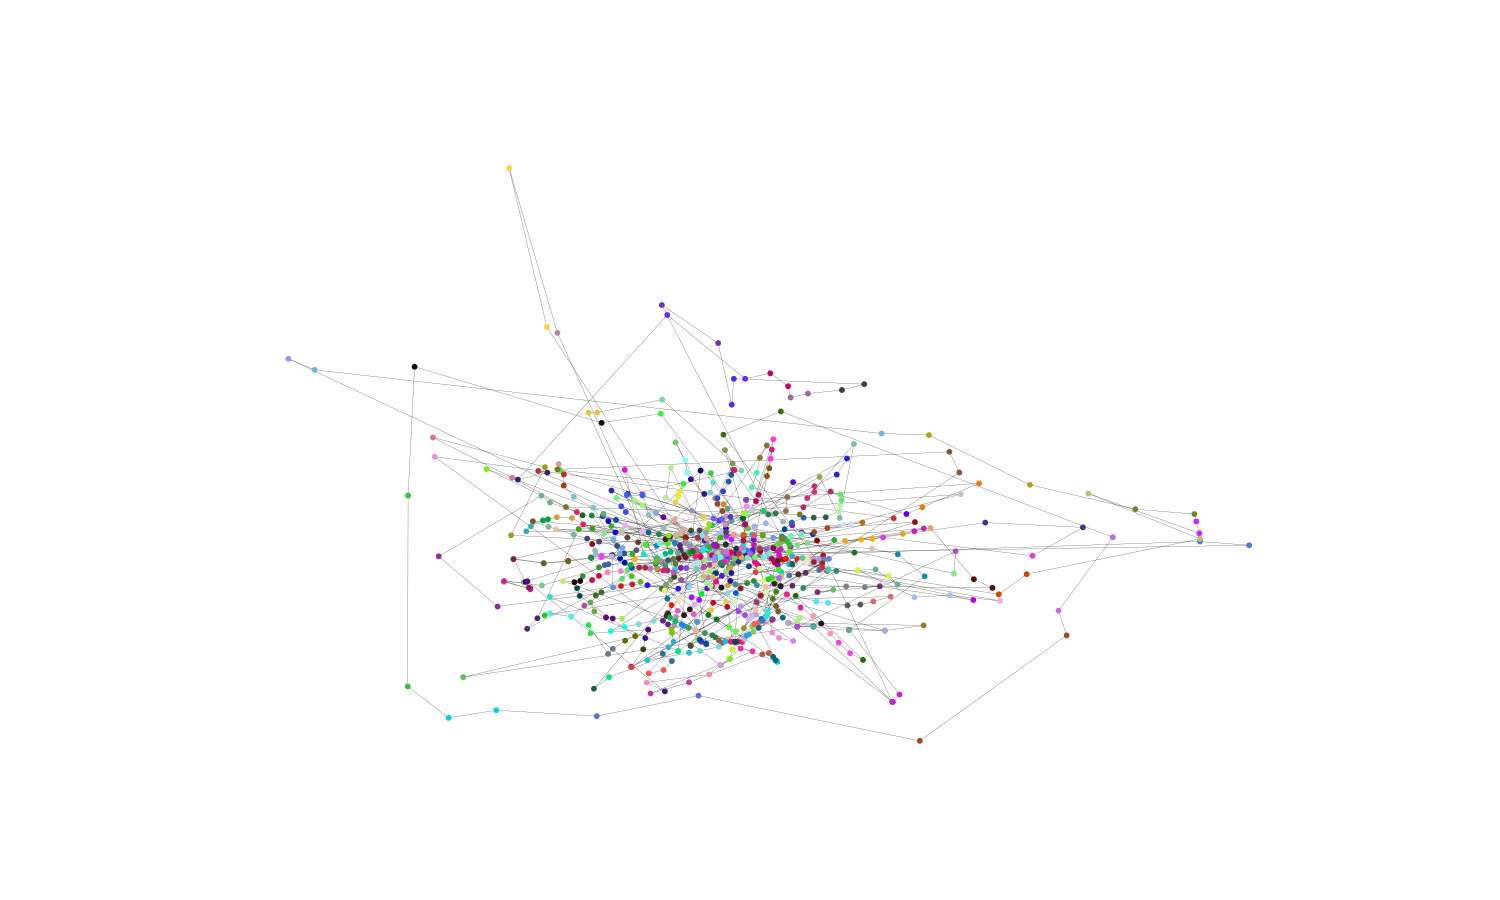
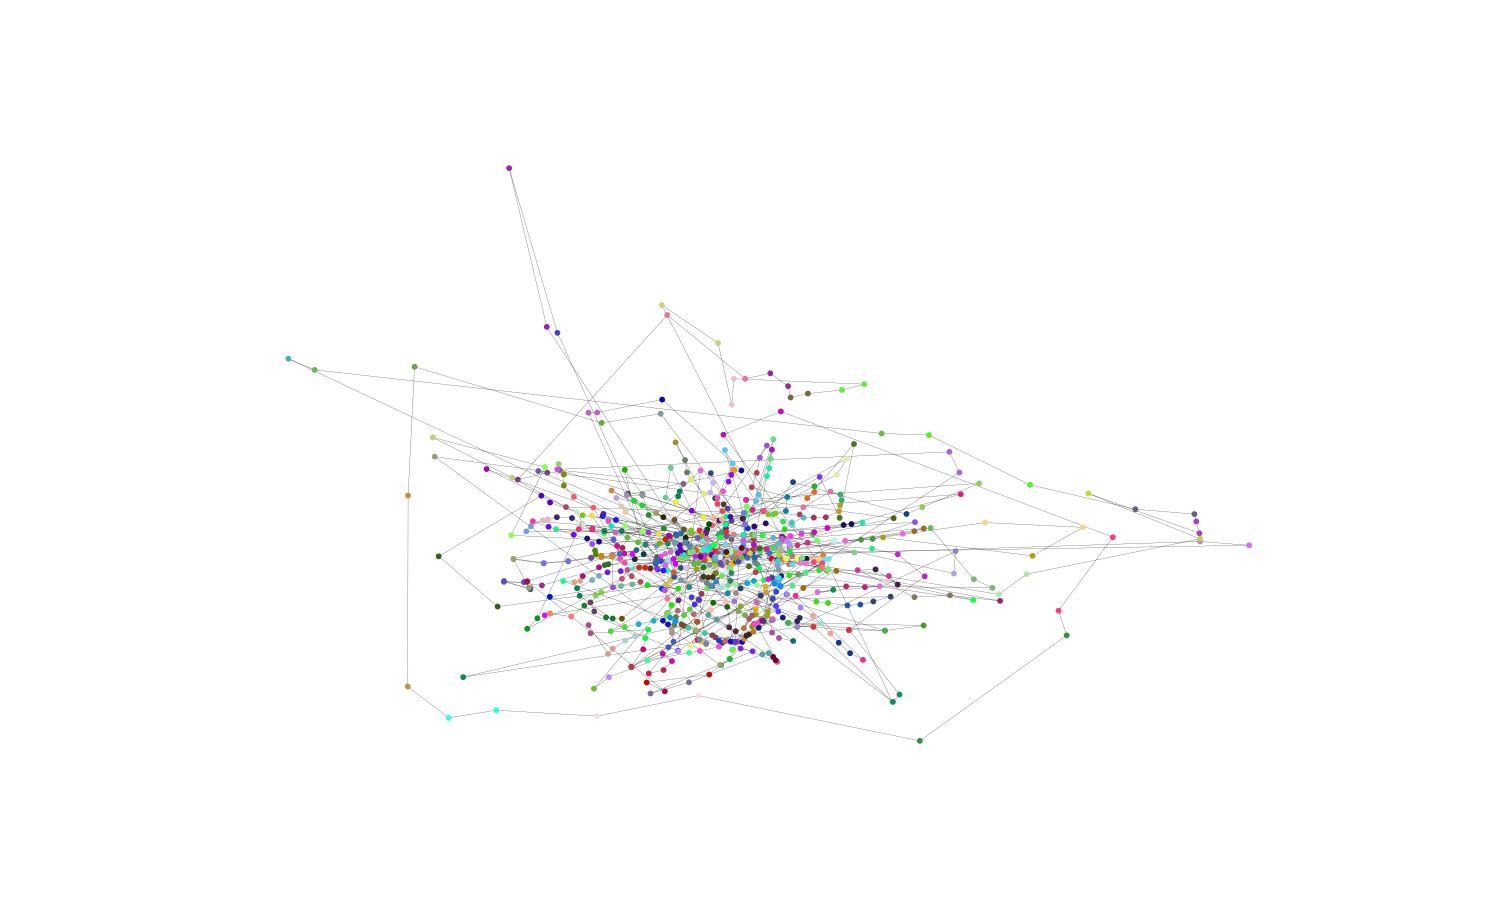
adding communities counter

Changed region(s): [[0.3373, 0.4978, 0.5827, 0.7778]]

diff --git a/src/main.py b/src/main.py
@@ -35,7 +35,6 @@ modes_colors = {
     'ferry': '#A52A2A'  # Brown
 }
 
-
 # View first five rows of each dataset
 print(cities.head())
 print(stations.head())
@@ -363,6 +362,28 @@ print("________________")
 print("Degree Pearson Correlation Coefficient: ", degree_pearson_correlation_coefficient)
 print("________________")
 
+pos = {node: latlon_to_xy(data['latitude'], data['longitude']) for node, data in G.nodes(data=True)}
+
+# Initialize a dictionary to map node IDs to colors
+node_colors_dict = {}
+
+# Assign colors to communities
+counter = 0
+for com in nx.community.label_propagation_communities(G):
+    color = "#%06X" % randint(0, 0xFFFFFF)  # creates random RGB color
+    counter += 1
+    for node in com:
+        node_colors_dict[node] = color
+
+# Ensure every node in the graph has a corresponding color
+default_color = "#808080"  # Grey color for any nodes not in communities
+node_colors_list = [node_colors_dict.get(node, default_color) for node in G.nodes()]
+
+
+print("________________")
+print("Communities: ", counter)
+print("________________")
+
 #___________________________________________________#
 #________Network Path Lengths Visualization_________#
 #___________________________________________________#
@@ -495,19 +516,10 @@ plt.close()
 #__________________________________________________________________________________#
 #_____________________________Communities Visualization____________________________#
 #__________________________________________________________________________________#
-colors = {}
-
-for com in nx.community.label_propagation_communities(G):
-    color = "#%06X" % randint(0, 0xFFFFFF)  # creates random RGB color
-    for node in list(com):
-        colors[node] = color
-        
-node_colors = [colors[node] for node in G.nodes()]
-
 plt.figure(figsize=(15, 9))
 plt.axis("off")
 nx.draw_networkx(
-    G, pos=pos, node_size=10, with_labels=False, width=0.15, node_color=node_colors
+    G, pos, node_size=10, with_labels=False, width=0.15, node_color=node_colors_list
 )
 plt.savefig('./communities_visualization.png')
 plt.close()
